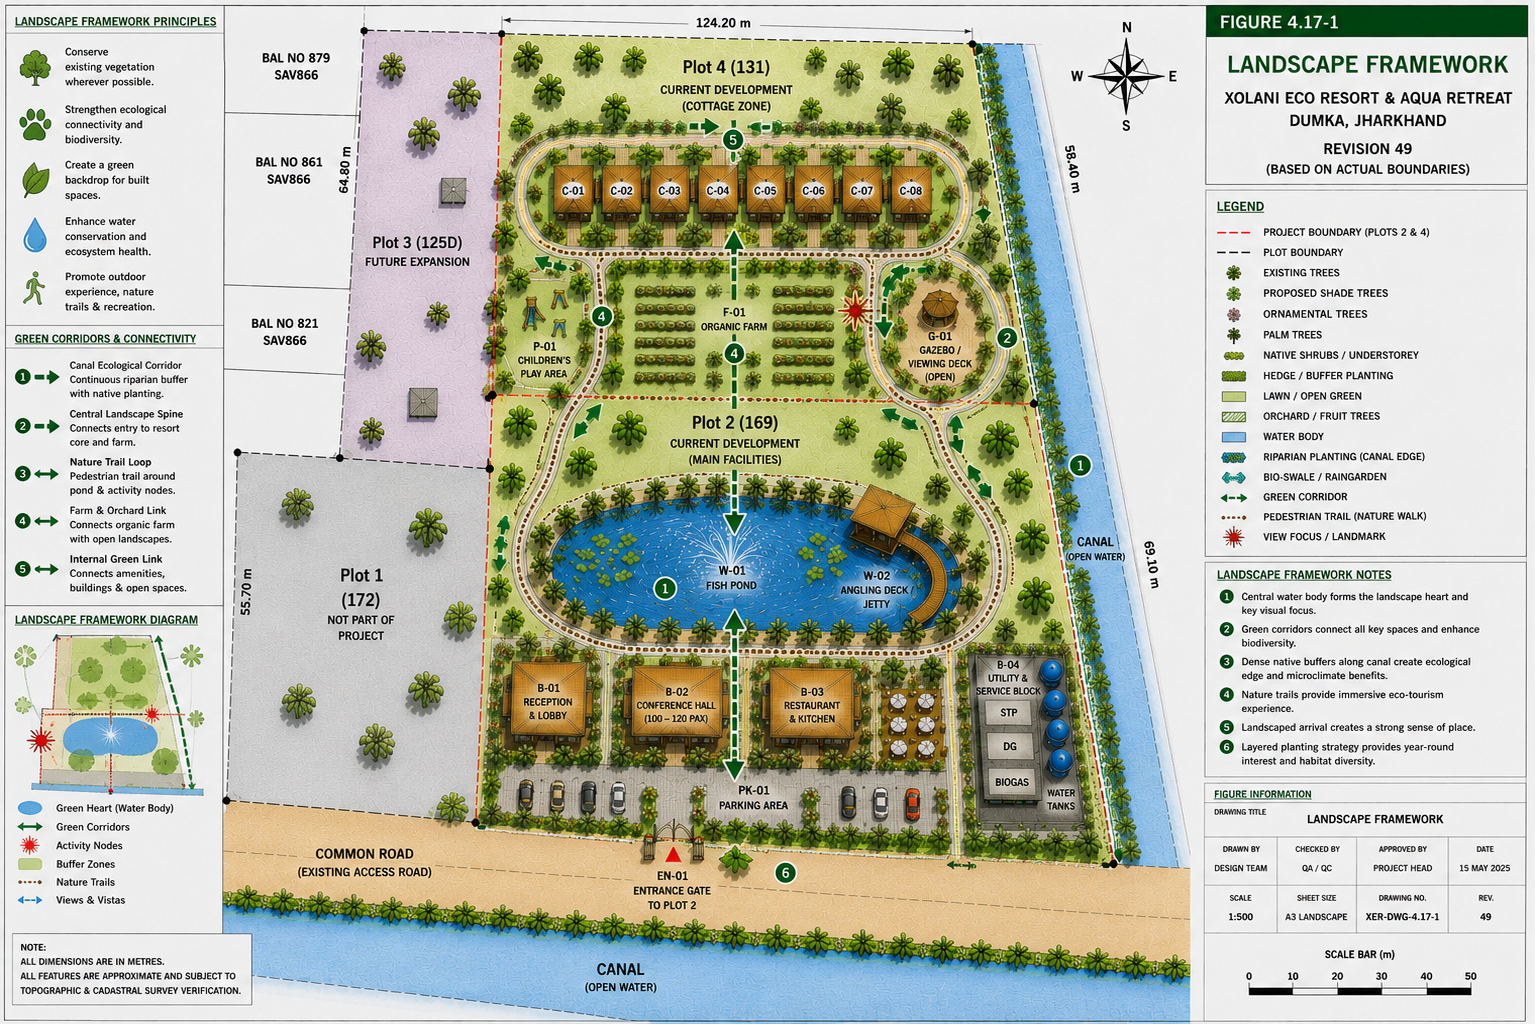
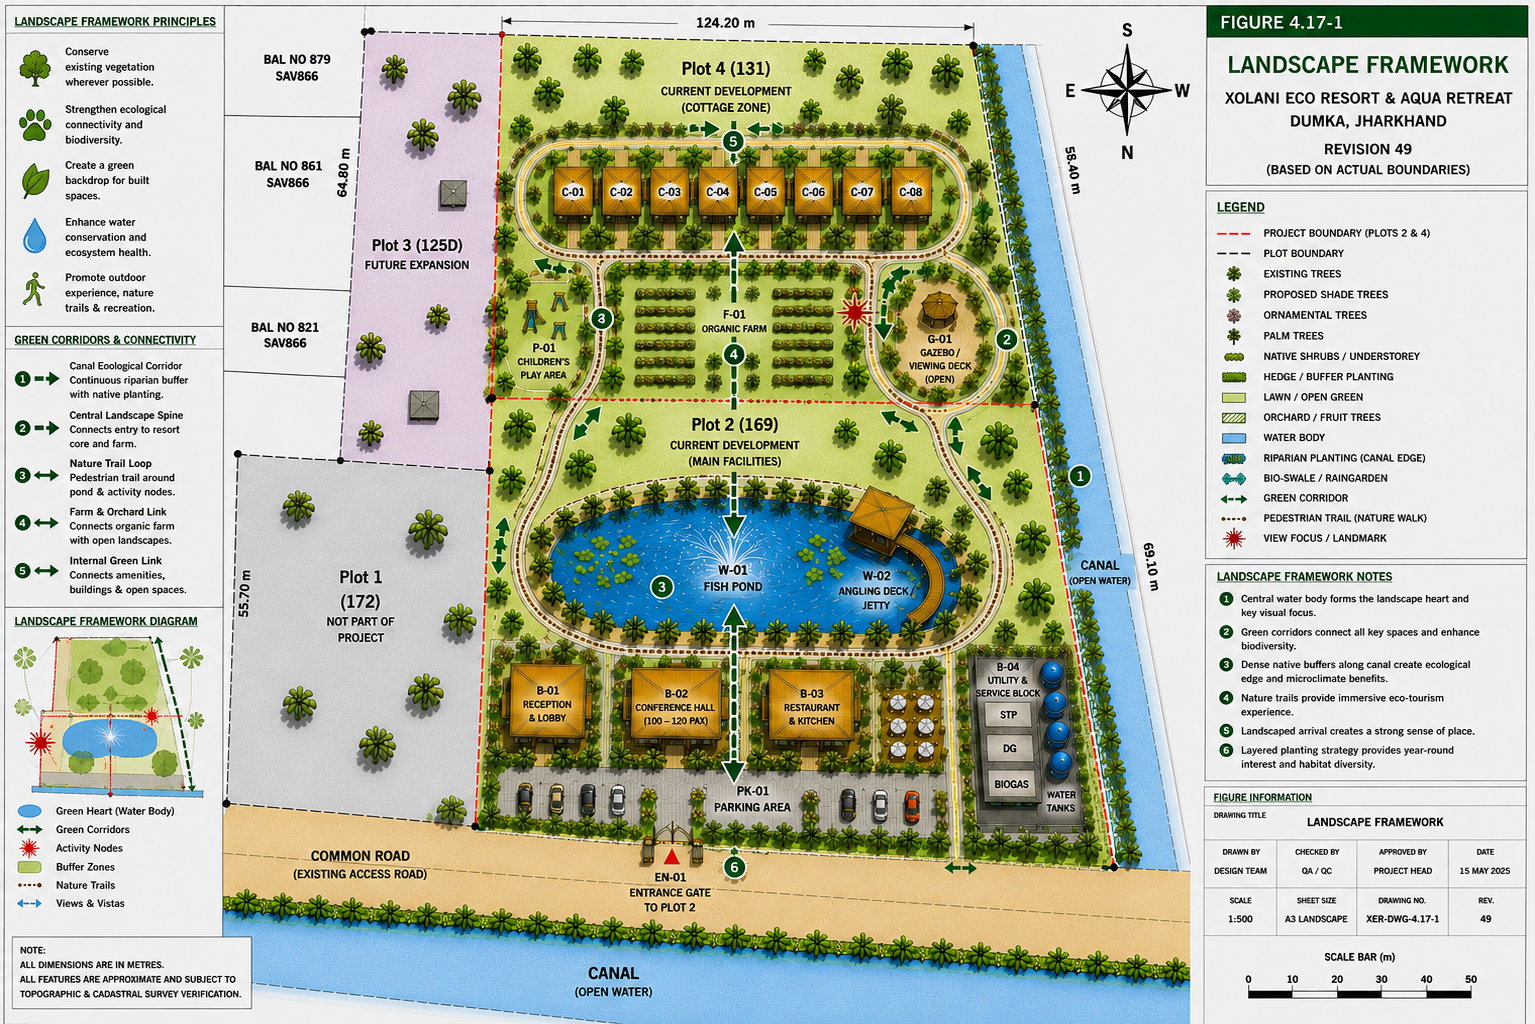
Approve AST-000022 Landscape Framework and DAR-022

Changed region(s): [[0.0, 0.0, 1.0, 1.0], [0.1837, 0.6562, 0.2143, 0.7188], [0.1531, 0.5625, 0.1837, 0.5938]]

diff --git a/engineering/DAR/DAR-022/DAR-022_Drawing_Analysis_Report.md b/engineering/DAR/DAR-022/DAR-022_Drawing_Analysis_Report.md
@@ -1,0 +1,47 @@
+# DAR-022 - Drawing Analysis Report
+
+## Controlled Asset
+
+- Asset ID: AST-000022
+- Original Filename: ChatGPT Image Jul 17, 2026, 05_36_26 PM.png
+- Repository Path: drawings/Current/ChatGPT Image Jul 17, 2026, 05_36_26 PM.png
+- DAR Reference: DAR-022
+
+## Drawing Identity
+
+- Figure: Figure 4.17-1
+- Title: LANDSCAPE FRAMEWORK
+- Drawing Number: XER-DWG-4.17-1
+- Revision: 49
+- Date: 15 MAY 2025
+- Sheet: A3 Landscape
+- Scale: 1:500
+
+## Comparison Baseline
+
+AST-000018, AST-000019, AST-000020 and AST-000021
+were used as approved project-orientation comparison baselines.
+
+The substantive Landscape Framework, site layout, boundaries, labels,
+colors, annotations, dimensions, title block, revision, scale and site
+content were retained.
+
+## Approved Correction
+
+The compass was corrected only.
+
+The approved project orientation is:
+
+- North - down
+- South - up
+- East - left
+- West - right
+
+No other drawing content was intentionally changed.
+
+## Approved Status
+
+APPROVED
+
+AST-000022 is controlled as the Landscape Framework drawing,
+Figure 4.17-1.
